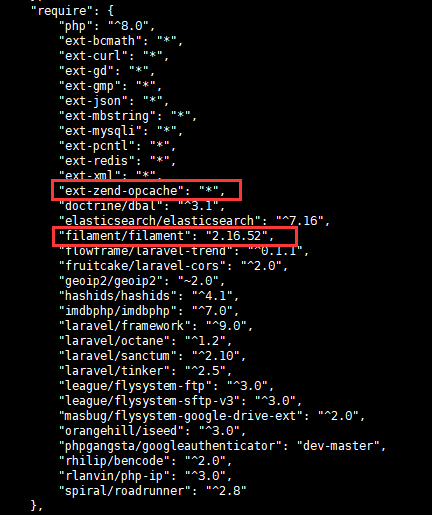
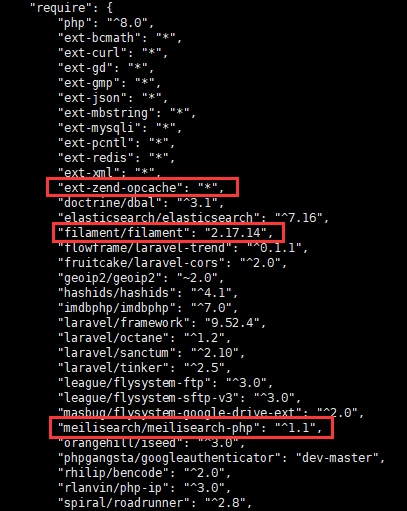
improve update 1.8

Changed region(s): [[0.059, 0.0, 0.9435, 0.998], [0.059, 0.9687, 0.0885, 0.998]]

diff --git a/docs/update1.8.md b/docs/update1.8.md
@@ -31,7 +31,7 @@ php artisan nexus:update
 php artisan filament:upgrade
 ```
 
-**有插件用户**，手工变更依赖。按下图，扩展新增 zend-opcache，filament 修改为 `2.16.52`
+**有插件用户**，手工变更依赖。按下图，扩展新增 `zend-opcache`，filament 修改为 `2.17.14`，添加 `"meilisearch/meilisearch-php": "^1.1",`
 
 <img :src="$withBase('/images/composer.json_1.8.png')">
 
